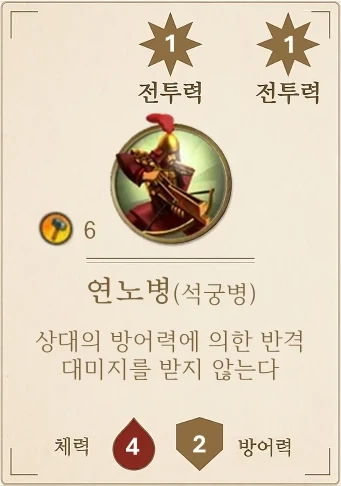
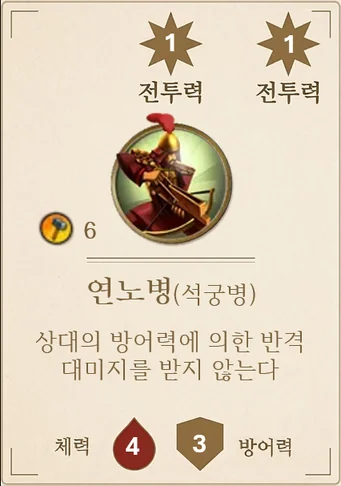
고유 유닛 새 카드 반영: 연노병 방어력 2 → 3 (그림 3장 교체), 장궁병 체력 4 → 5·방어력 2 → 1 (사용자 결정 #66, #67)
Claude-Session: https://claude.ai/code/session_01LEwiRiXRJPjckZxHM1aEbm

diff --git a/docs/open-questions.md b/docs/open-questions.md
@@ -70,6 +70,8 @@
 | 63 | 첫 도시 시작 타일 수 | 사용자 결정: 첫 도시는 모든 문명이 공평하게 **시작 타일 4장 안에서** 고른다. 시작 문화 보너스(프랑스·페르시아·그리스·훈족·몽골), 시작 손의 엘도라도 처음 발견 문화, 킬리만자로·엘도라도 영토 문화는 모두 도시를 세운 뒤에 받아 그만큼 타일을 붙인다 (예전: 시작 문화·엘도라도 발견만큼 손에 더 받아 5~6장 중에서 도시를 골랐음). 규칙서 게임 준비 5단계는 "시작 보너스가 있는 문명은 해당 보너스를 가져옵니다", "처음 얻는 문화 타일" → "이후 처음 얻는 타일" |
 | 64 | 그리스 카드 | 사용자 결정(새 카드): 그리스 시작 행복 3 → **4**, 시작 장군 1 **삭제** (시작 문화 1·고유 유닛 2장은 그대로). 게임 안 그리스 문명 카드 그림도 새 카드로 교체 |
 | 65 | 케식텐 방어력·임피 체력 | 사용자 결정(새 카드): 몽골 케식텐 방어력 1 → **0** (망치 6, 체력 5, 1-4번 중 골라 전투력 2, 반격 없음은 그대로). 낙타궁수 새 카드(망치 6, 체력 4, 방어력 2)는 데이터와 같음. 줄루 임피 체력 3 → **4** (새 카드: 망치 4, 전투력 2, 방어력 3, 효과 그대로) |
+| 66 | 연노병 방어력 | 사용자 결정(새 카드): 중국 연노병 방어력 2 → **3** (망치 6, 체력 4, 전투력 1 마크 2개·방향 조합 3종, 방어력 반격 없음은 그대로). 게임 안 연노병 카드 그림 3장도 교체 |
+| 67 | 장궁병 체력·방어력 | 사용자 결정(새 카드): 영국 장궁병 체력 4 → **5**, 방어력 2 → **1** (망치 6, 전투력 2·방향 3종, 방어력 반격 없음은 그대로). 카드 그림 파일은 받지 못해 수치만 반영 |
 
 ## 공개 범위 (설계 결정)
 - 공개: 타일·기술·정책·불가사의·군사 카드 **장수**, 로그에 남는 "무엇을 생산·승급했는지".
